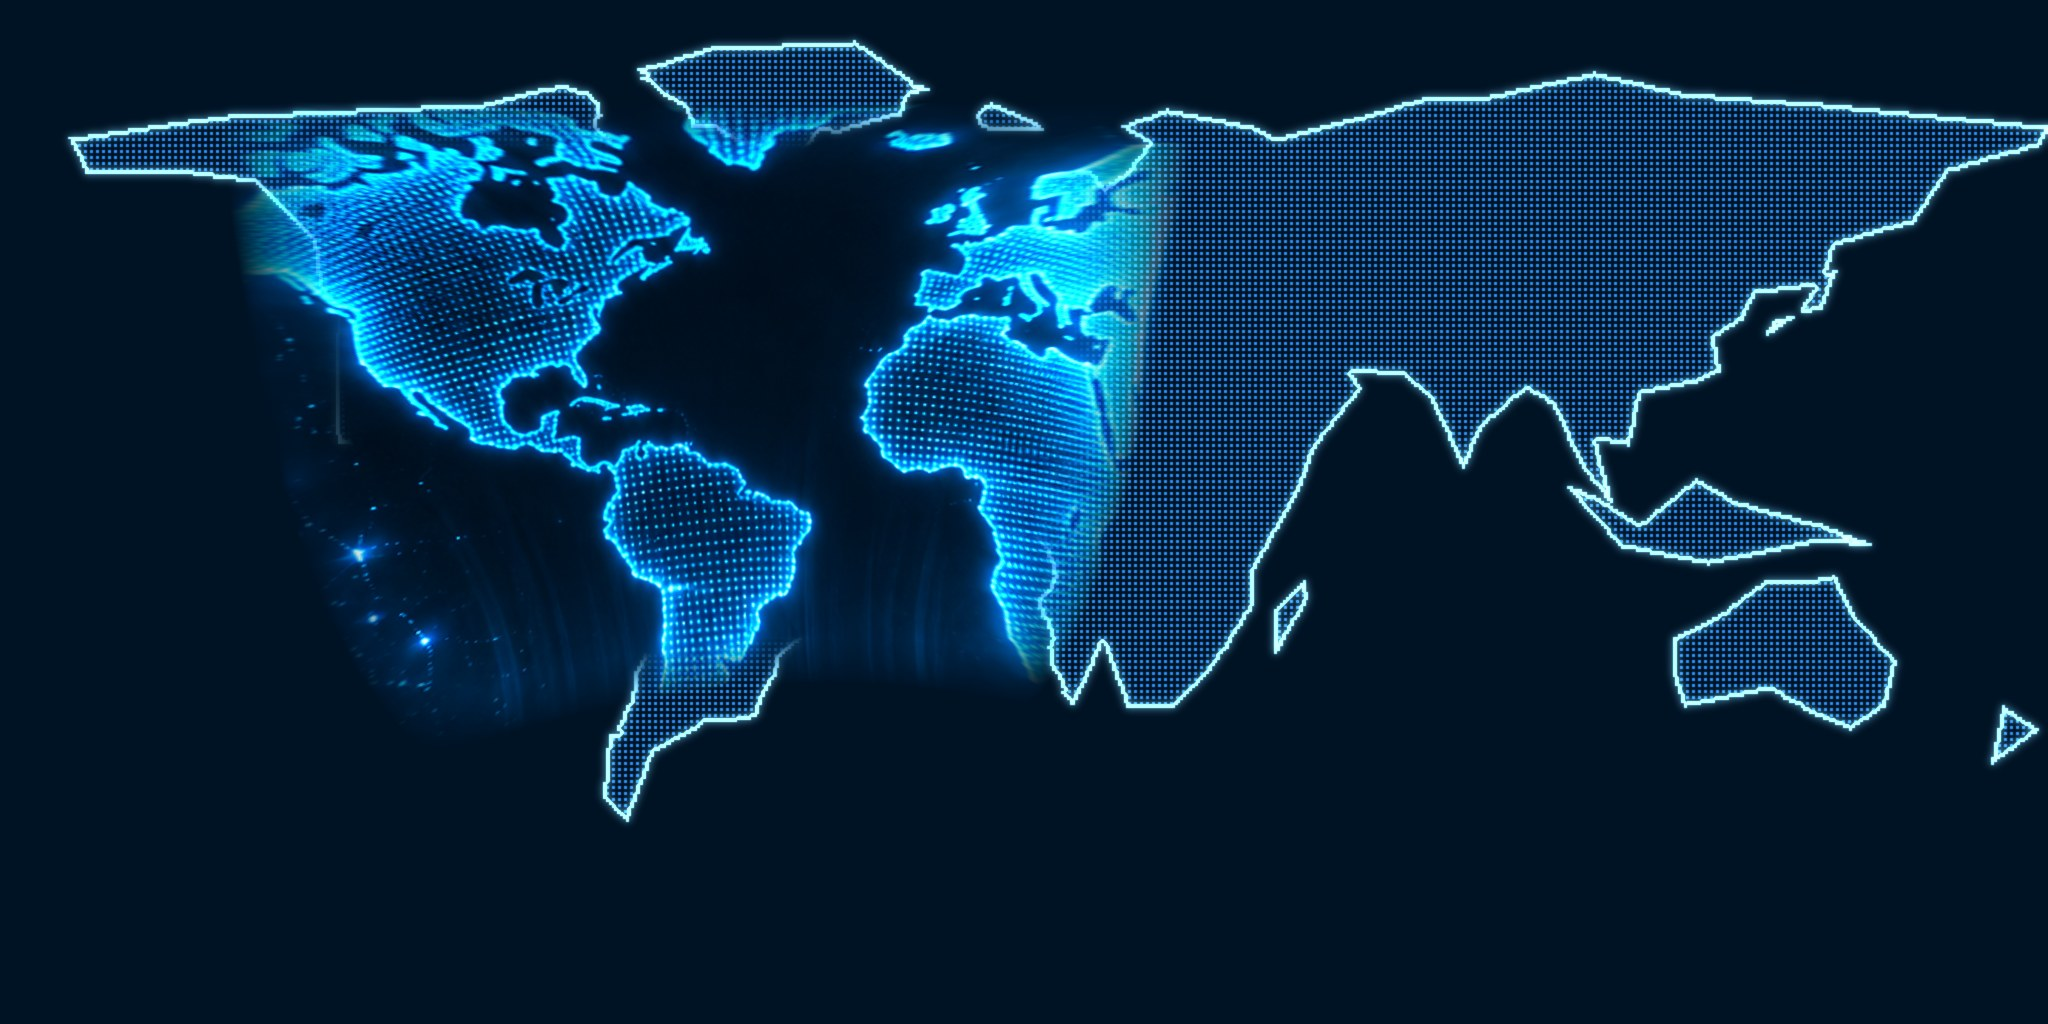
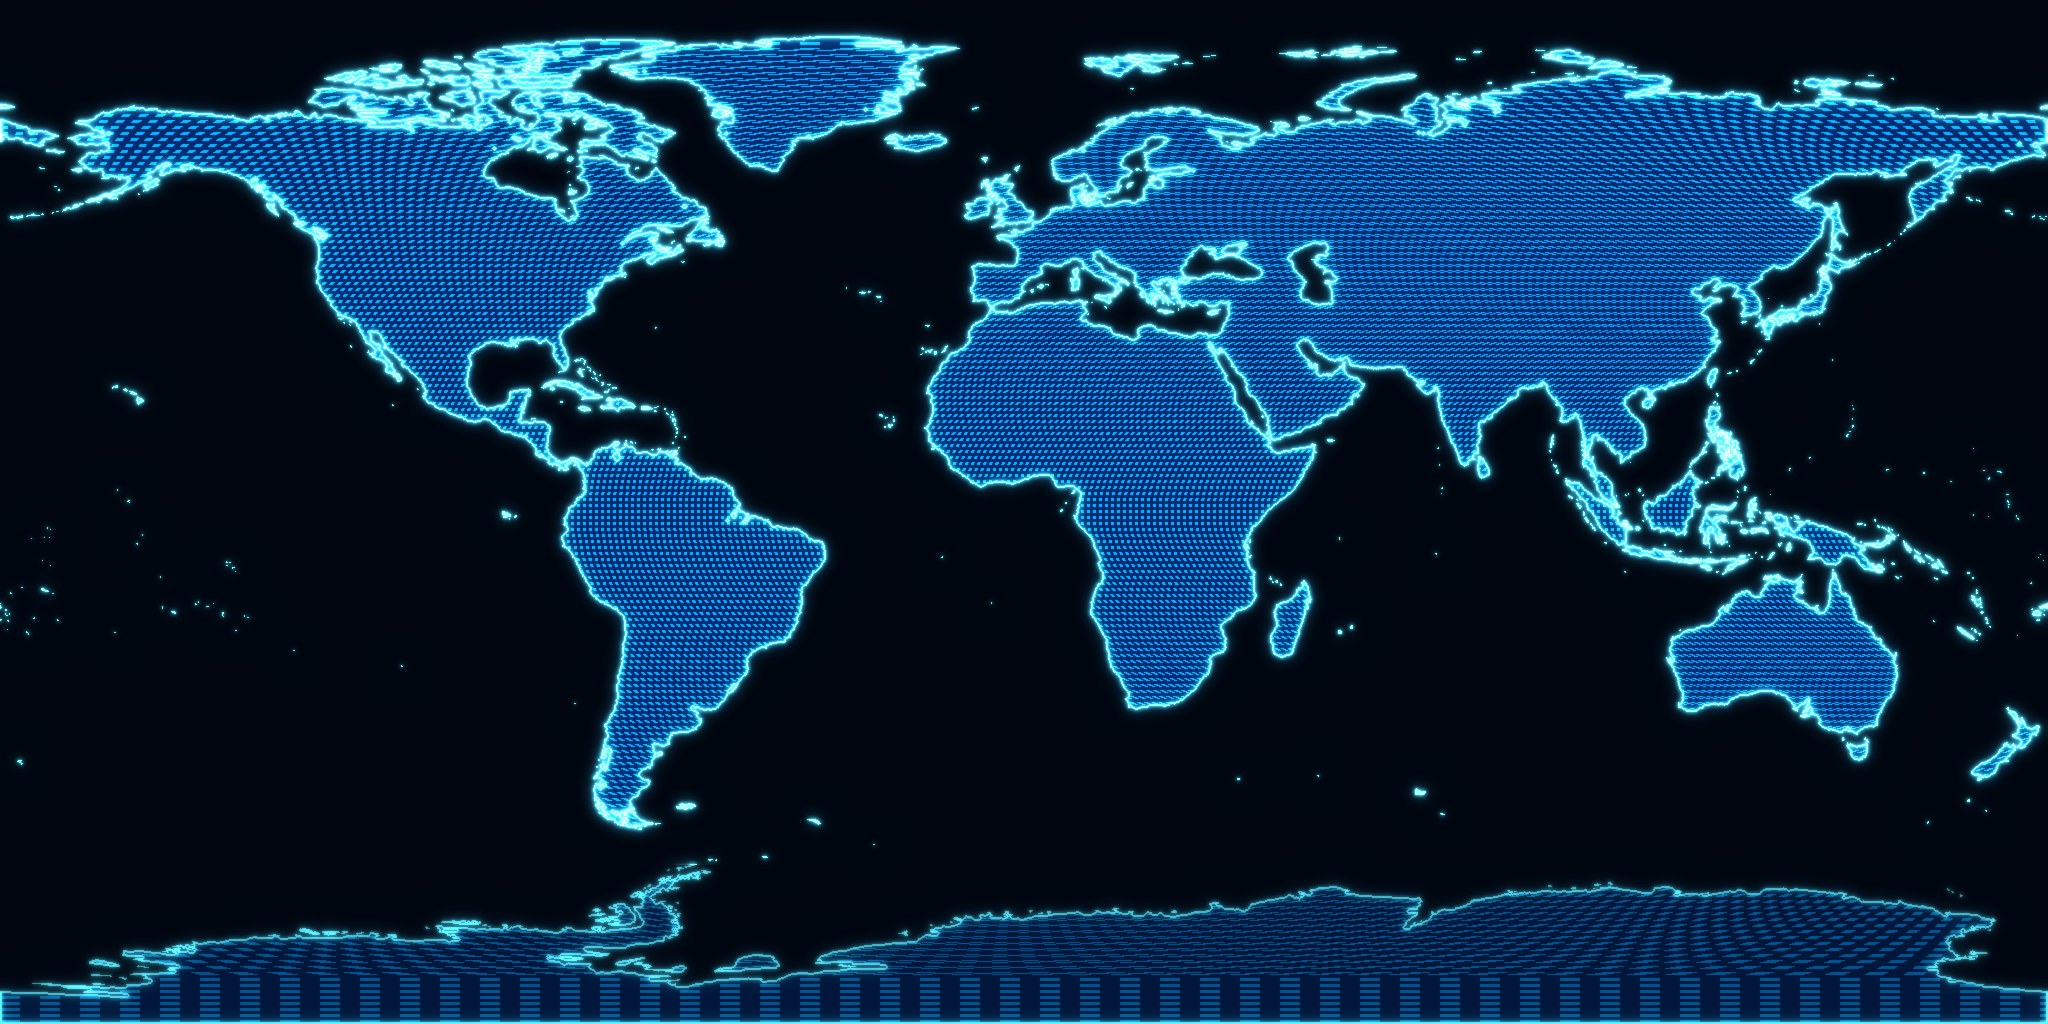
Bumi laman masuk: peta pantai sebenar (Natural Earth), permukaan sama gaya di semua sisi
Claude-Session: https://claude.ai/code/session_0172Wnkta9SkhPqZt62vdBhs

diff --git a/index.html b/index.html
@@ -816,6 +816,7 @@ function sha(s){   // SHA-256 segerak, supaya suara boleh keluar terus dalam tek
         o.putImageData(id, 0, 0); }
       l.setTransform(1, 0, 0, 1, 0, 0); l.clearRect(0, 0, lay.width, lay.height);
       l.setTransform(S * dpr, 0, 0, S * dpr, OX * dpr, OY * dpr); l.imageSmoothingQuality = 'high'; l.drawImage(off, BX, BY);
+      l.save(); l.shadowColor = 'rgba(40,170,255,.95)'; l.shadowBlur = 22 * S * dpr; l.strokeStyle = 'rgba(80,200,255,.55)'; l.lineWidth = 3; l.beginPath(); l.ellipse(GCX, GCY, GRX - 1, GRY - 1, 0, 0, 7); l.stroke(); l.restore();
       x.setTransform(1, 0, 0, 1, 0, 0); x.clearRect(0, 0, cv.width, cv.height);
       if (!done && now > nextGlitch && !HOLO.stopping) { glitchUntil = now + 160 + Math.random() * 300; nextGlitch = now + 4000 + Math.random() * 6000; }
       if (now < glitchUntil) { const Hh = cv.height, Ww = cv.width; x.globalAlpha = .6 + Math.random() * .4;
@@ -882,7 +883,7 @@ async function sync(){
     $('sync').className = 'sync ok';
   } catch(e){ $('sync').textContent = 'Tiada sambungan · cuba lagi'; $('sync').className = 'sync bad'; }
 }
-const APP_VERSION = '20261124180744';
+const APP_VERSION = '20261124183659';
 async function checkVersion(){
   if (location.protocol === 'file:') return;
   try { const v = (await (await fetch('version.txt?t=' + Date.now(), {cache:'no-store'})).text()).trim();
